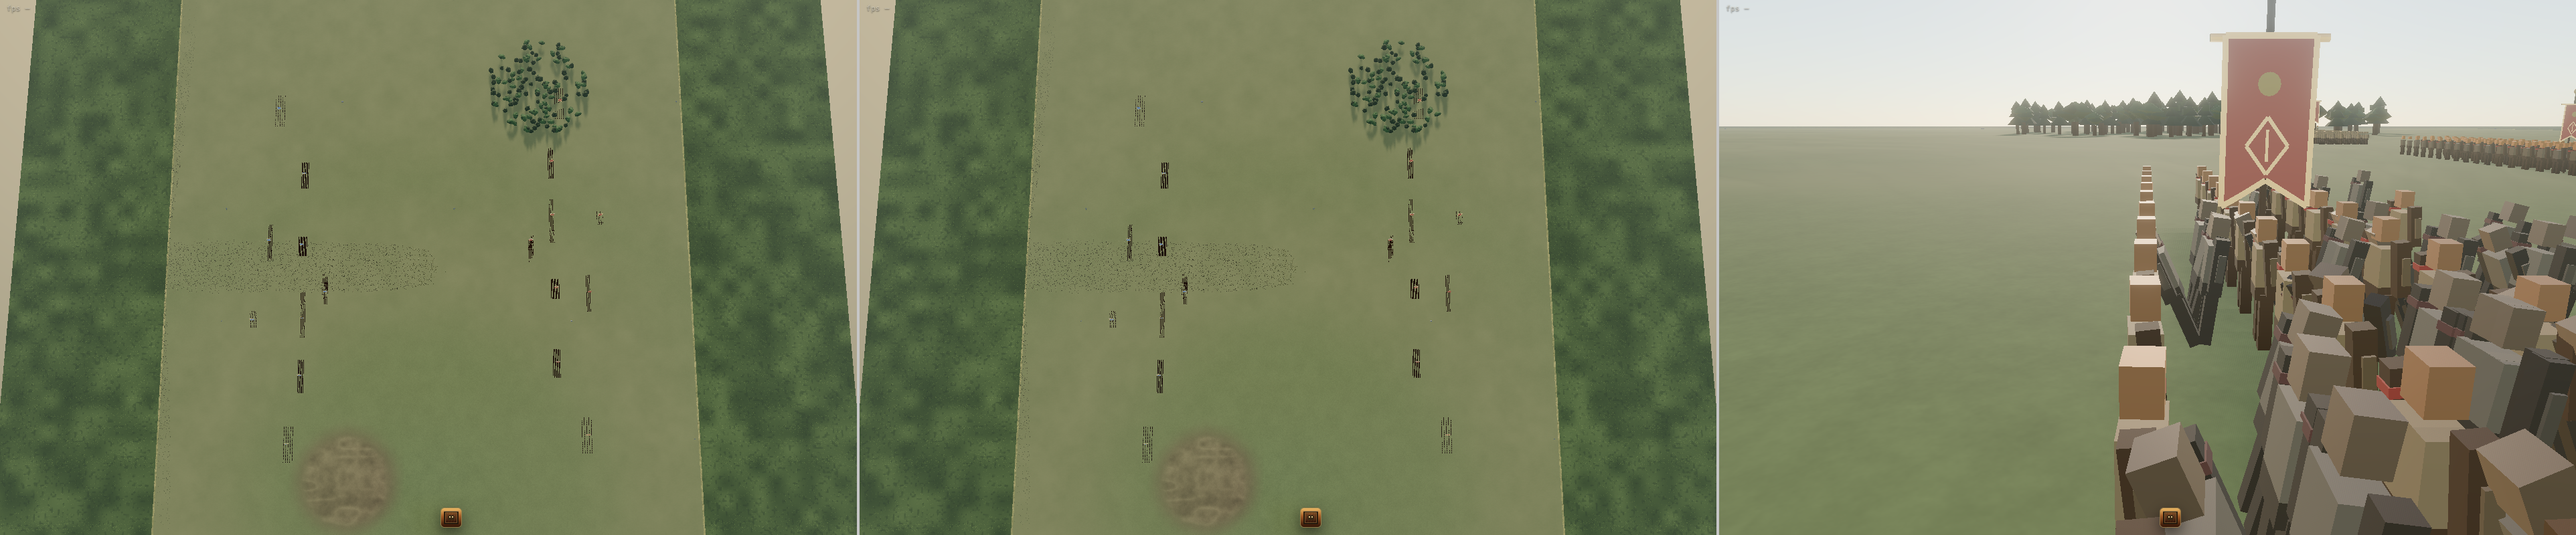
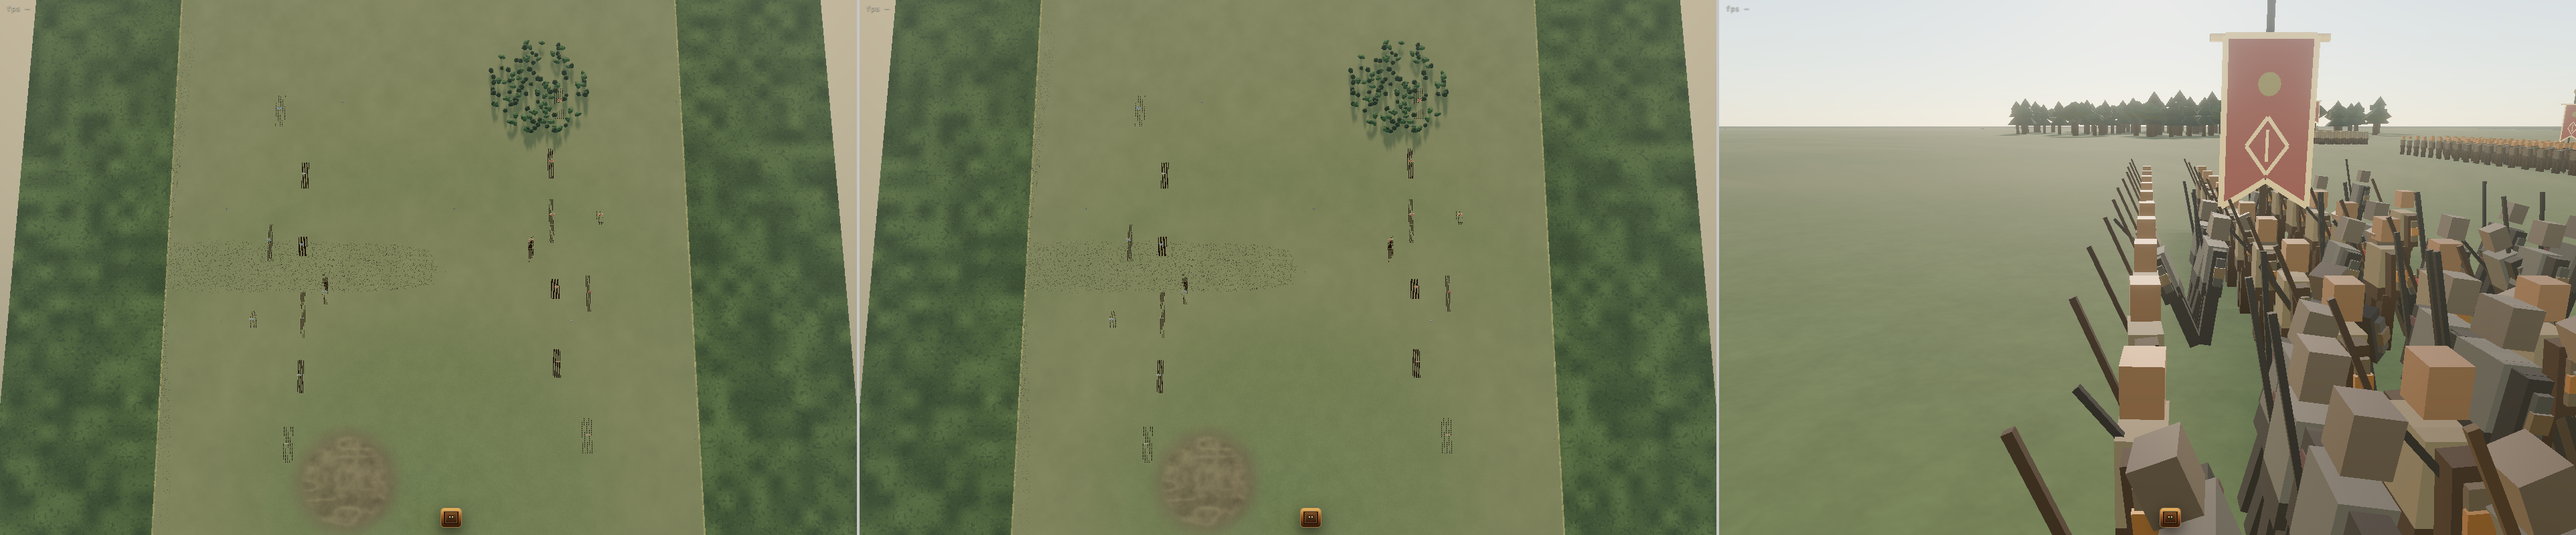
grass goal: round focus snap scaled to ring, route-anchor probe, shadow pin fix

Changed region(s): [[0.7796, 0.3125, 1.0, 1.0], [0.7796, 0.5625, 0.8108, 0.5938]]

diff --git a/packages/photoreal-renderer/src/battle/battleWorld.ts b/packages/photoreal-renderer/src/battle/battleWorld.ts
@@ -334,6 +334,7 @@ export class PhotorealBattleWorld {
   private grassSampleStats: GrassFieldStats | null = null;
   private grassRebuildStats: {
     strategy: "margin-raf-timesliced-swap";
+    routeAnchor?: number[];
     focusRadiusM: number;
     rebuildMarginM: number;
     coverageRadiusM: number;
@@ -879,6 +880,13 @@ export class PhotorealBattleWorld {
         target[0],
         target[1],
       ]);
+    this.grassRebuildStats.routeAnchor = [
+      Math.round(target[0]),
+      Math.round(target[1]),
+      Math.round(eye[0]),
+      Math.round(eye[1]),
+      Math.round(eye[2] * 10) / 10,
+    ];
     this.crowd.refreshCamera(this.camera);
     this.markerLayer.setCameraBasis(this.camera);
     this.readoutLayer.setCameraBasis(this.camera);
@@ -959,7 +967,10 @@ export class PhotorealBattleWorld {
     this.grassRebuildStats.activeTransition = this.activeGrassTransition;
     this.grassRebuildStats.activeRecordBudget = budget.maxRecords;
     this.grassRebuildStats.areaBudgetScale = budget.areaScale;
-    const step = this.grassProfile.snapCellSize;
+    // The snap step scales DOWN with the ring: 48m stability cells suit the
+    // 480m vista disc, but on a ~122m close ring a whole cell is a third of
+    // the radius - the disc must track the target much closer.
+    const step = Math.min(this.grassProfile.snapCellSize, Math.max(8, radius / 8));
     const focus = {
       x: snapGrassFocus(focusX, step),
       y: snapGrassFocus(focusY, step),
@@ -1228,7 +1239,12 @@ function disposeMesh(mesh: THREE.Mesh): void {
 }
 
 function snapGrassFocus(value: number, step: number): number {
-  return Math.floor(value / step) * step;
+  // ROUND, never floor: a floored 48m grid displaces the disc up to ~34m per
+  // axis, and at the close ring (r~122m) that pushed the stratified record
+  // concentration ~60m off the look target - a bald frame at ground level
+  // with all records "far". Rounding halves the worst error and keeps the
+  // key-stability contract (same cell -> same key).
+  return Math.round(value / step) * step;
 }
 
 function productionBladeFieldProfile(

diff --git a/web/tests/photorealShadows.test.ts b/web/tests/photorealShadows.test.ts
@@ -34,7 +34,7 @@ test("an explicit tier override wins over the probe", () => {
   assert.equal(resolveSunShadowMode("apple / metal-3", "single"), "single");
   assert.equal(resolveSunShadowMode("google / swiftshader", "csm"), "csm");
   // Unknown override values fall back to the probe, never crash the tier.
-  assert.equal(resolveSunShadowMode("apple / metal-3", "blurry"), "csm");
+  assert.equal(resolveSunShadowMode("apple / metal-3", "blurry"), "single");
 });
 
 test("PCF softness derives from preset turbidity: monotonic, clamped [1, 3]", () => {
